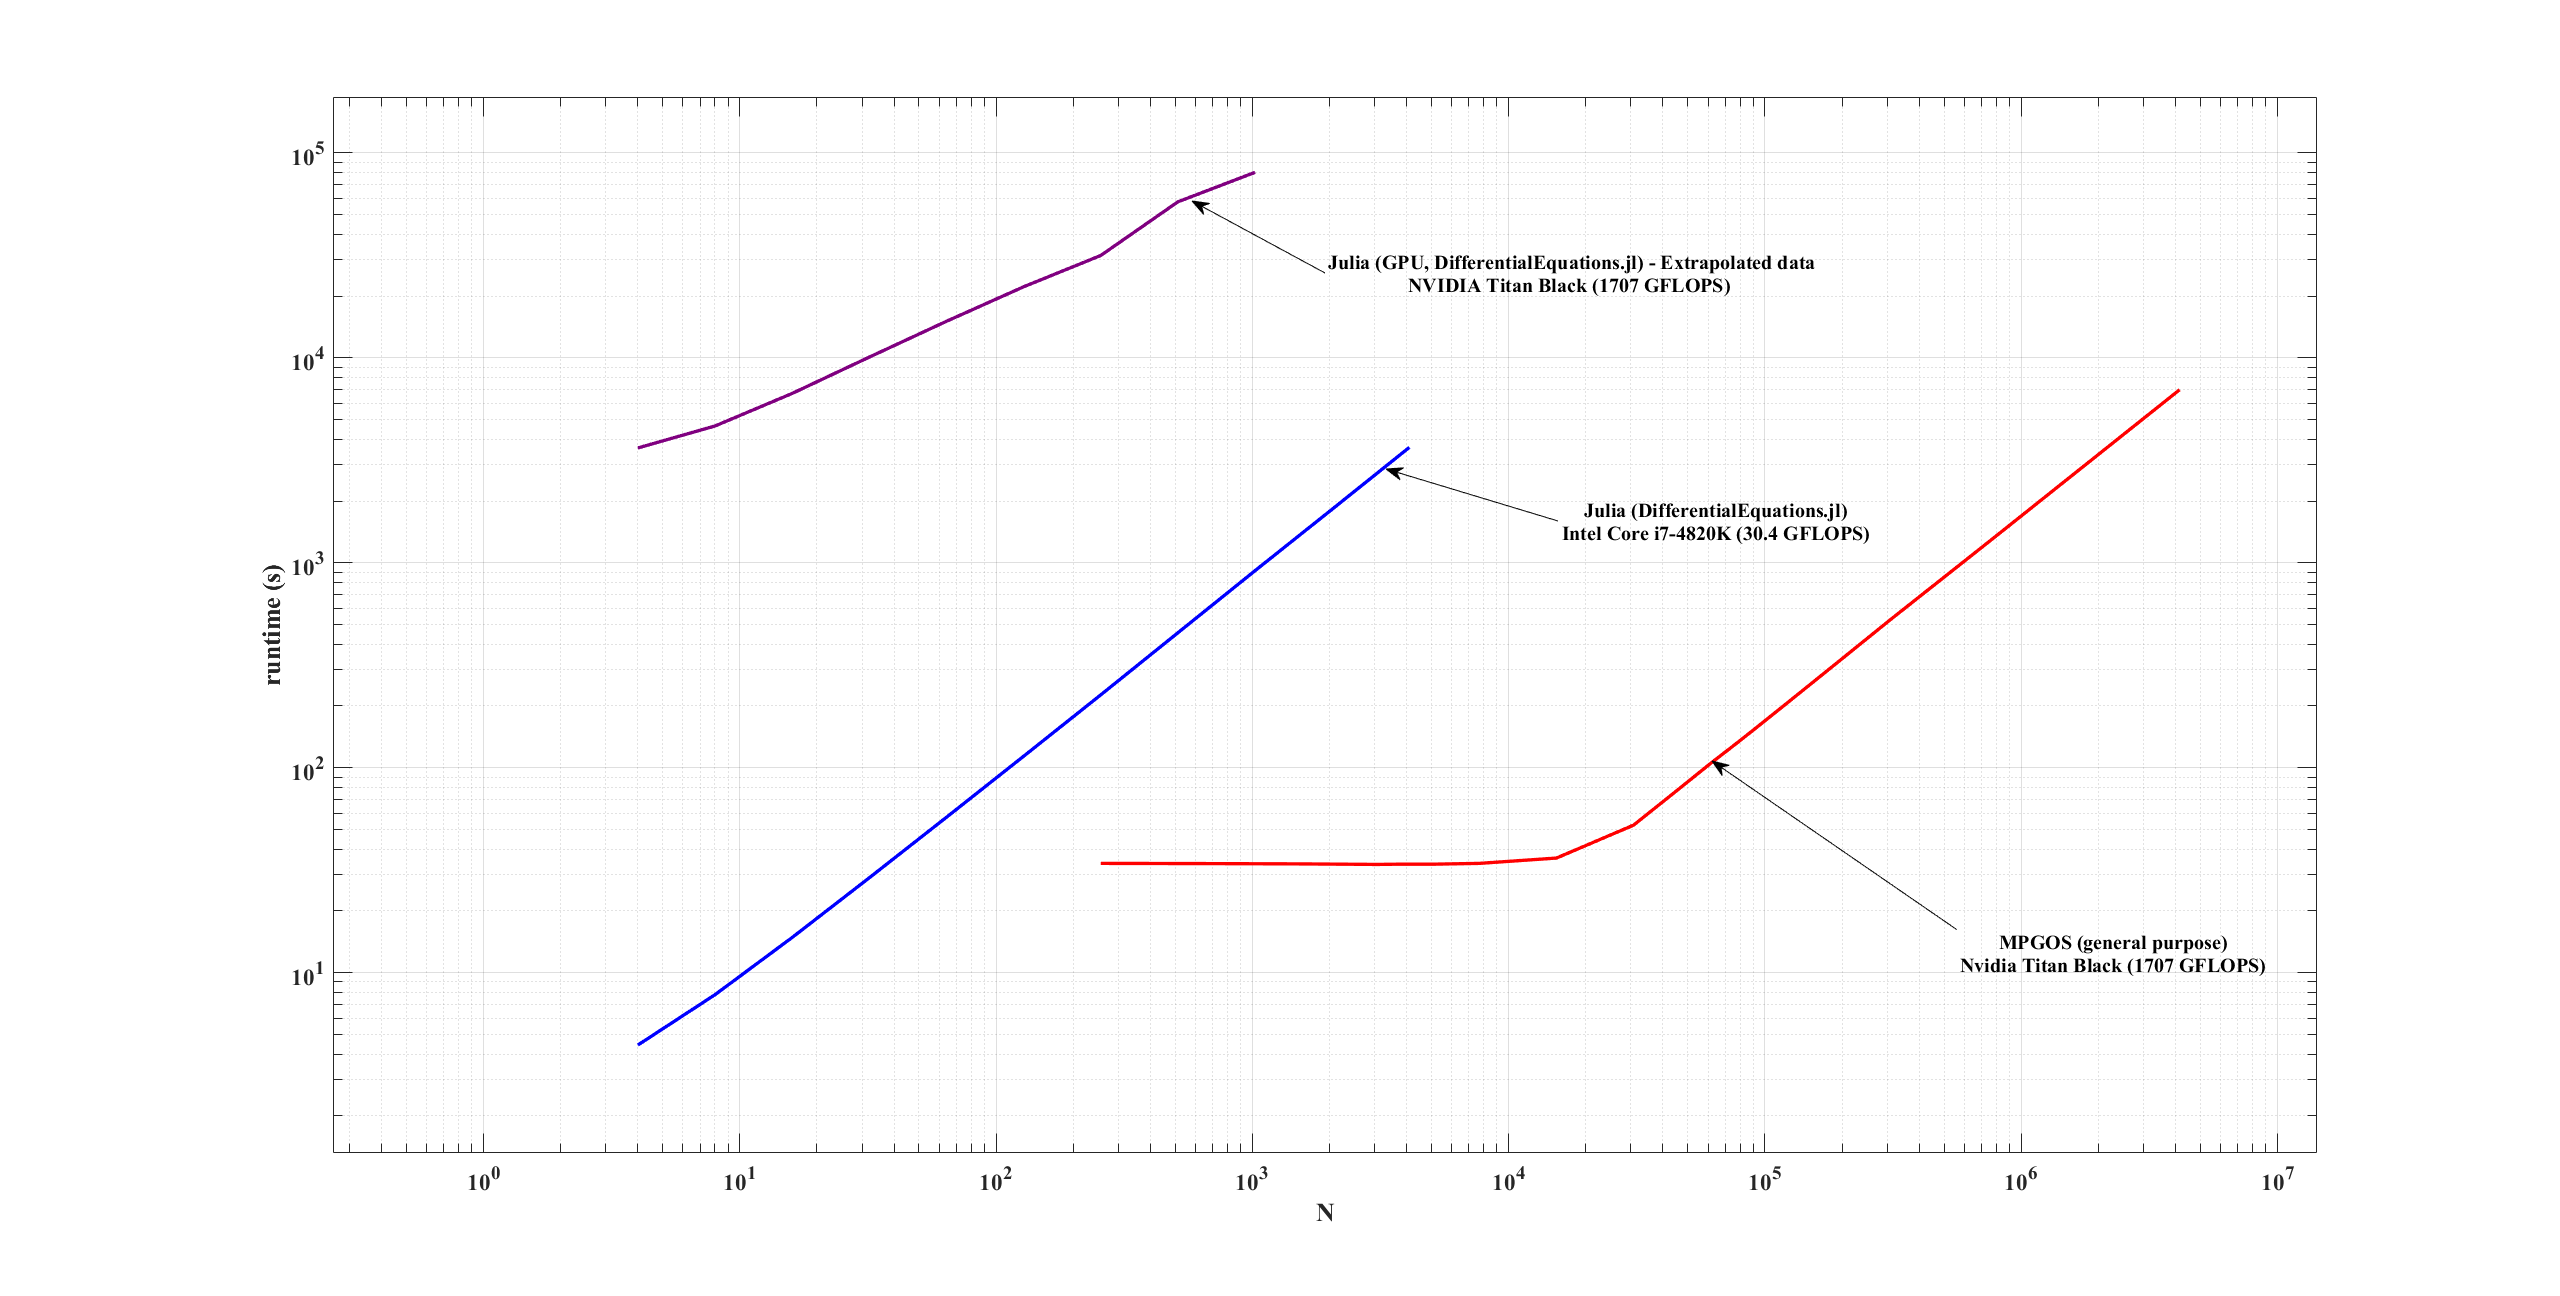
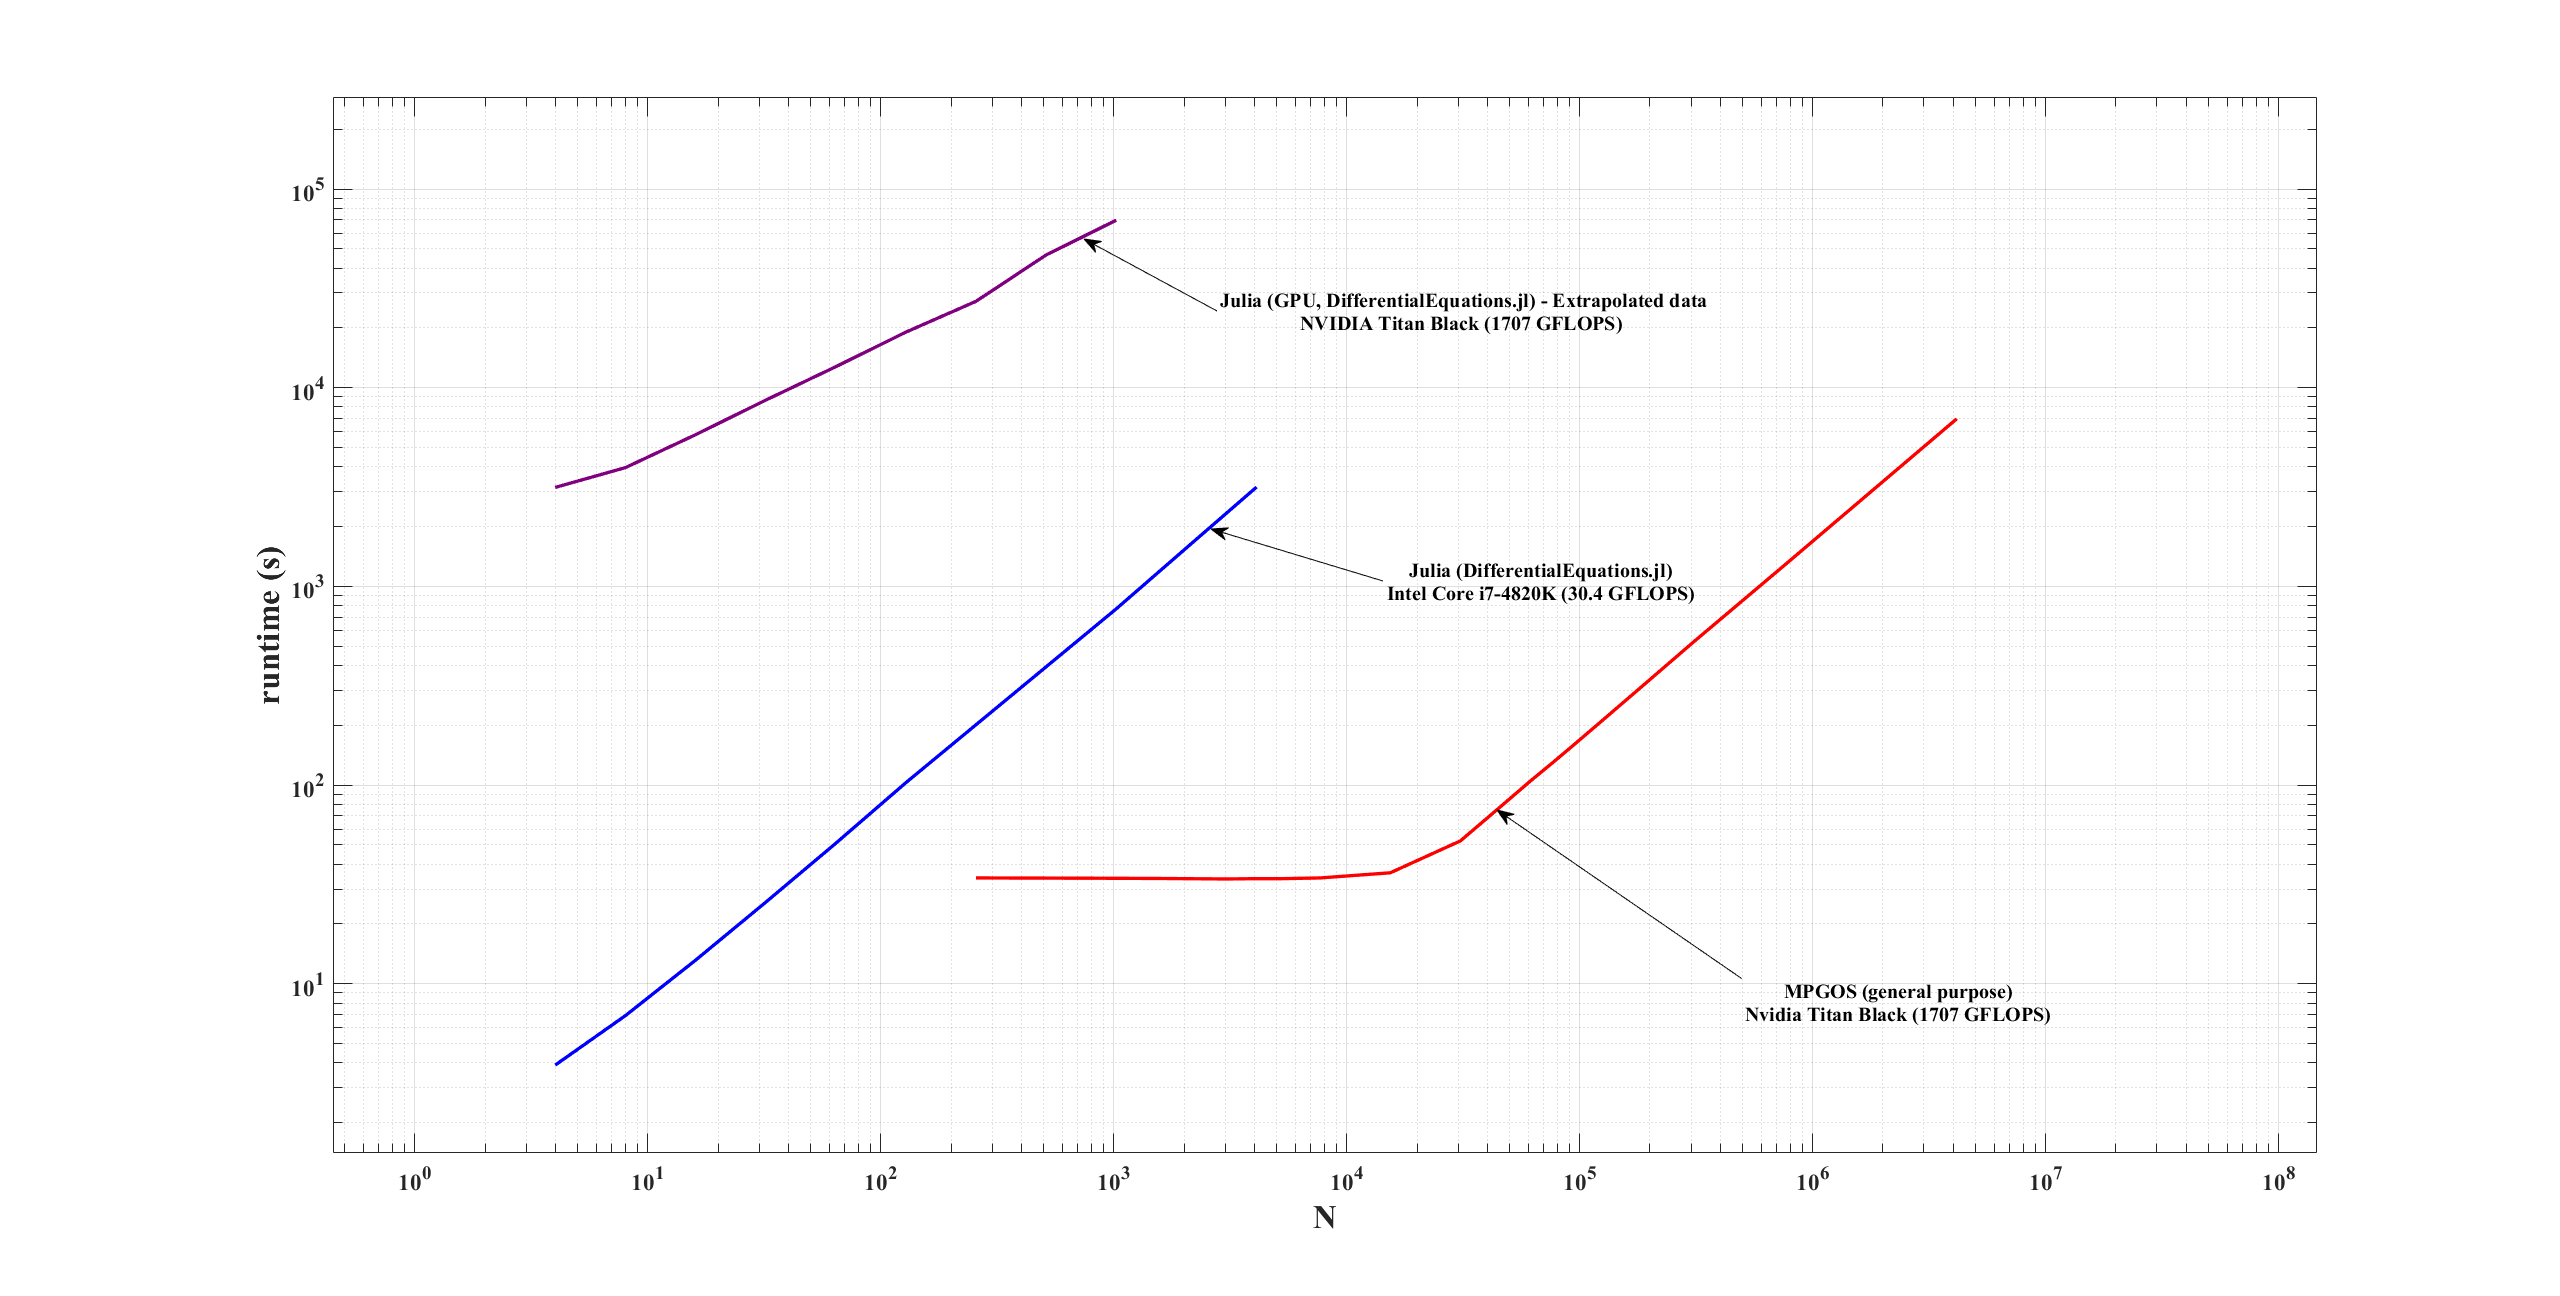
optimizing instructions

diff --git a/Keller_Miksis_RK45/Performance/KellerMiksisPerformanceComparison_GPU_JULIA.m b/Keller_Miksis_RK45/Performance/KellerMiksisPerformanceComparison_GPU_JULIA.m
@@ -8,13 +8,12 @@ mpgos.x = [256 768 1536 3072 3840 5120 7680 15360 30720 46080 61440 76800 92160 
 mpgos.z = [34.1 34.0 33.9 33.7 33.8 33.8 34.1 36.2 52.4 78.6 105.0 130.3 156.0 208.1 313.1 524.7 1299.4 6977.5];
 
 %CPU_KellerMiksis_julia.jl
-julia_cpu.x = [4	8	16	32	64	128	256	1024 2048 4096 10000];
-%julia_cpu.y = [4.114	7.288	13.803	26.862	53.259	105.801	222.343	853.743 1709.705	3384.723	8231.672863];
-julia_cpu.z = [4.428	7.796	14.827	29.002	57.240	113.616	226.456	914.129392 1823.728	3652.775 NaN]; 
+julia_cpu.x = [4        8       16      32      64      128     256 	1024        2048        4096     10000];
+julia_cpu.z = [3.898	6.911	13.139	25.709	50.941	102.874	201.296	771.332     1562.726	3161.66  NaN]; 
 
 %GPU_KellerMiksis_julia.jl
 julia_gpu.x = [4	8	16	32	64	128	256	512 1024];
-julia_gpu.z = [3628.48 4645.76 6697.18 10074.9 15063.4 22195.2 31552 57664 80327]; 
+julia_gpu.z = [3149.76, 3960.32, 5799.04, 8655.04, 12756.8, 19045.4, 27221.8, 46577.3, 69702.7]; 
 
 fig=figure(1); hold on;
 p1=plot(mpgos.x,mpgos.z);
